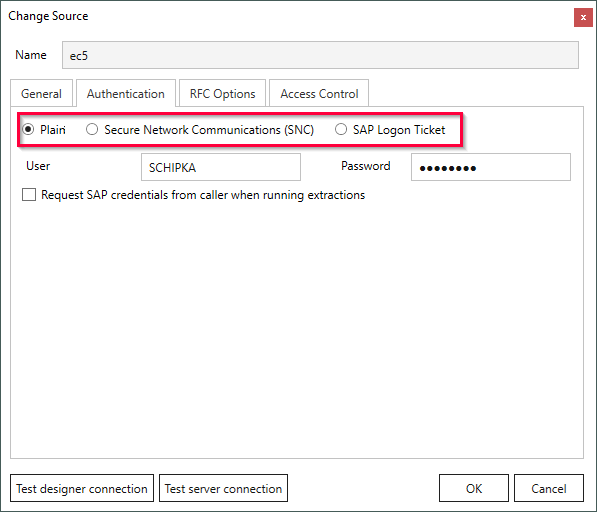
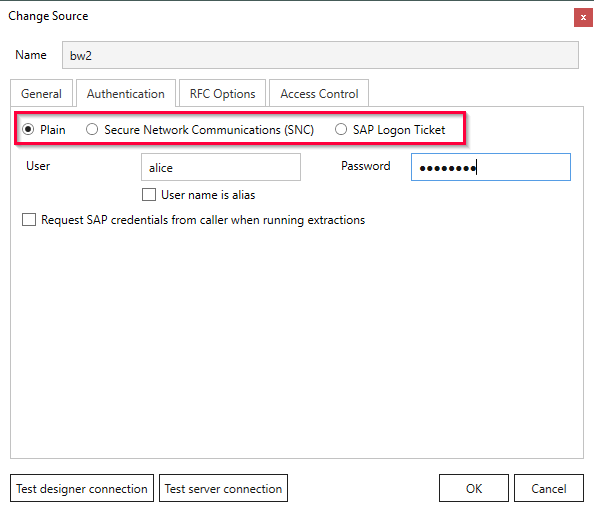
screenshot + SAP source menu

diff --git a/_includes/_content/en/xu-specific/advanced-techniques/sap-connection.md b/_includes/_content/en/xu-specific/advanced-techniques/sap-connection.md
@@ -27,6 +27,16 @@ There are two possibilities to connect to an SAP source system:
 	- **SID**: three-digit System ID (Property SID e.g.,  MSS) 
 For more information, see [SAP Documentation: Load Balancing](https://help.sap.com/saphelp_nwpi711/helpdata/en/c4/3a644c505211d189550000e829fbbd/content.htm?no_cache=true).
 
+- connect via **WebSocket** 
+	- **Host**: name or IP address of the SAP cloud system 
+	- **Port**: port of the SAP cloud system, usually 443
+	- **Library**: directory of the SAP cryptographic library (can be downloaded in the SAP Service Marketplace)
+	- **Client PSE**: directory of the client .pse file, see [Knowledge Base Article: Create a Client PSE to connect to SAP Cloud Systems](https://kb.theobald-software.com/sap/create-personal-security-senvironment)
+
+{: .box-note }
+**Note:** When connecting to an SAP cloud system via *WebSocket*, activate the checkbox **User name is alias** in [Plain Authentication](#plain-authentication). 
+This is necessary, because the connection to SAP cloud systems, requires the name of an internet user alias instead of an SAP username. 
+
 
 #### Access via SAP Router
 
@@ -52,6 +62,10 @@ The following authentication methods are supported:
 ### Plain Authenthication
 
 Enter your SAP username and password.
+
+**User name is alias** <br>
+Activate this option when connecting to an SAP cloud system using the [WebSocket](#system) connection method. 
+When this option is active, the name entered in the field **User** is used as the internet user alias.
 
 **Request SAP credentials from caller when running extractions** <br>
 If this option is active, SAP credentials entered in the **User** and **Password** fields are not applied.

diff --git a/content/_en/xtract-universal/getting-started/sap-connection.md b/content/_en/xtract-universal/getting-started/sap-connection.md
@@ -32,4 +32,5 @@ If extractions are already available:
 2. Click **[Add]** to add a new SAP connection or click ![pen](/img/content/icons/pen.png) to edit an existing connection. The window "Change Source" opens. <br>
 ![XU-Create-Connection-2](/img/content/xu_manage_source.png){:class="img-responsive"}
 
+
 {% include _content/en/xu-specific/advanced-techniques/sap-connection.md %}
